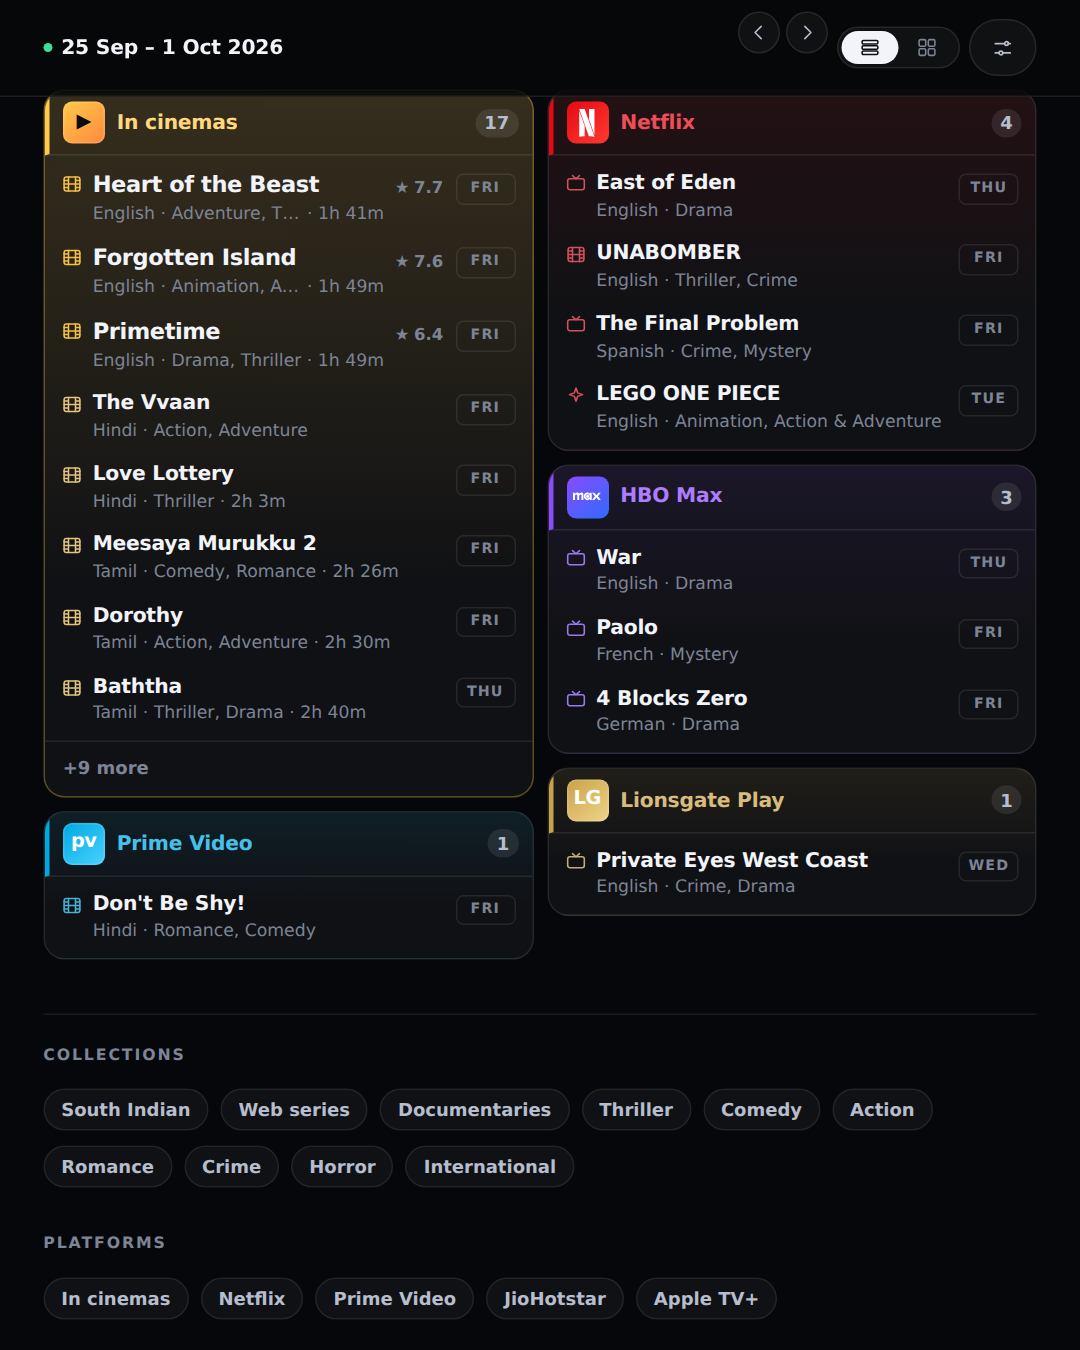
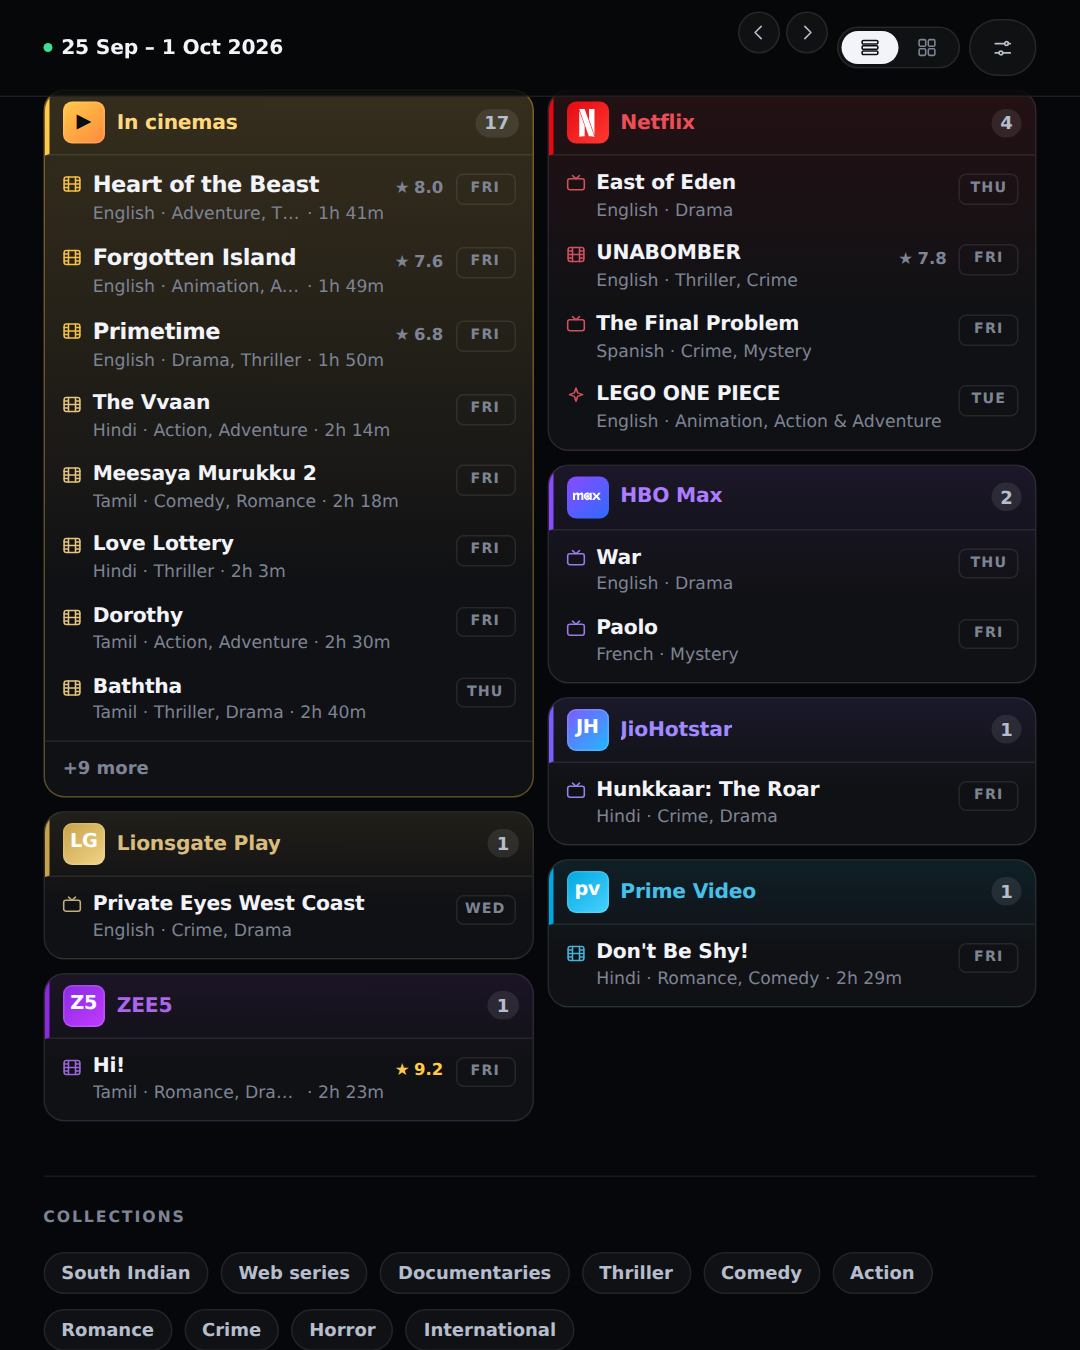
Rebuild the week's post on the calendar that actually shipped
The first cut was built an hour before Friday's refresh published, on the
24 September feed, and was already wrong in every way that matters to a post
claiming to be this week: 26 titles rather than 27, no ZEE5 and no JioHotstar
column at all, HBO Max showing 3 where it has 2, no Malayalam among the
languages, and most ratings and runtimes still missing.

Reshot from the feed generated at 14:51 today. Seven platform columns now,
Heart of the Beast at 8.0, UNABOMBER at 7.8, Hi! at 9.2 on ZEE5, runtimes
attached. It is a better image as well as a true one.

Caption rewritten against the same data: 27 titles, 17 in cinemas, eight
languages.

Noted in the file, because the sequencing is the lesson and not the numbers:
a post built before the day's refresh lands has to be rebuilt after it.

Claude-Session: https://claude.ai/code/session_01CJygpwCShxESuwziV1Cb3S

diff --git a/social/week-2026-09-25/caption.md b/social/week-2026-09-25/caption.md
@@ -1,46 +1,51 @@
 # Instagram — week of 25 Sep – 1 Oct 2026
 
 **Format:** 2-slide carousel, 1080×1350 (4:5)
-**Slide 1:** `1-the-week.png` — the whole week, every platform
+**Slide 1:** `1-the-week.png` — the whole week, all seven platforms
 **Slide 2:** `2-in-cinemas.png` — all 17 theatrical releases
 
 Both are real screenshots of the app at newonott.in, not mock-ups.
+Built from the feed generated 2026-09-25T14:51Z.
 
 ---
 
 ## Caption
 
-26 titles out this week. 17 of them in cinemas. Here's the whole thing 👇
+27 titles out this week. 17 of them in cinemas. Here's the whole thing 👇
 
 🎬 IN CINEMAS (17)
-• Heart of the Beast ★7.7 — English
+• Heart of the Beast ★8.0 — English
 • Forgotten Island ★7.6 — English
-• Primetime ★6.4 — English
+• Primetime ★6.8 — English
 • The Vvaan — Hindi
-• Love Lottery — Hindi
 • Meesaya Murukku 2 — Tamil
+• Love Lottery — Hindi
 • Dorothy — Tamil
-• Chiranjeevi Hanuman: The Eternal — Hindi
 • Spark — Kannada
+• Aaram — Malayalam
+• Dhoomakethu — Malayalam
+• Chiranjeevi Hanuman: The Eternal — Hindi
 • Premada Oorali — Kannada
 • Pulavar — Tamil
 • Autobi — Bengali
-• Village Rockstars 2 — Assamese
-…and more on slide 2
+• Baththa — Tamil (Thu)
+• Yezhu Kadal Yezhu Malai — Tamil (Thu)
+…full list on slide 2
 
 📺 STREAMING
-• East of Eden — Netflix (Thu)
-• UNABOMBER — Netflix (Fri)
+• UNABOMBER ★7.8 — Netflix (Fri)
 • The Final Problem — Netflix (Fri)
 • LEGO ONE PIECE — Netflix (Tue)
-• War — HBO Max (Thu)
-• Paolo — HBO Max (Fri)
-• 4 Blocks Zero — HBO Max (Fri)
+• East of Eden — Netflix (Thu)
+• Hi! ★9.2 — ZEE5 (Fri)
+• Hunkkaar: The Roar — JioHotstar (Fri)
 • Don't Be Shy! — Prime Video (Fri)
+• Paolo — HBO Max (Fri)
+• War — HBO Max (Thu)
 • Private Eyes West Coast — Lionsgate Play (Wed)
 
-Nine languages this week — English, Tamil, Hindi, Kannada, Bengali,
-Assamese, Spanish, French, German.
+Eight languages this week — English, Hindi, Tamil, Kannada, Malayalam,
+Bengali, Spanish, French.
 
 Save this. Send it to the person who always asks what to watch.
 
@@ -52,23 +57,22 @@ Every release, every platform, updated daily → newonott.in
 ## Hashtags
 
 #NewOnOTT #OTTIndia #OTTReleases #WhatToWatch #StreamingIndia
-#NewReleases #NetflixIndia #PrimeVideoIndia #TamilCinema #KollywoodUpdates
-#BollywoodNews #KannadaCinema #SandalwoodUpdates #IndianCinema #MovieCalendar
-#ThisWeekInCinemas #WeekendWatch #FilmTwitter #OTTUpdates #NowStreaming
+#NewReleases #NetflixIndia #PrimeVideoIndia #ZEE5 #JioHotstar
+#TamilCinema #KollywoodUpdates #BollywoodNews #KannadaCinema #Mollywood
+#IndianCinema #MovieCalendar #ThisWeekInCinemas #WeekendWatch #NowStreaming
 
 ---
 
-## Story version
-
-Slide 1 works as-is for a 9:16 story if you let Instagram letterbox it, but
-a purpose-built 1080×1920 already exists: `npm run story`.
-
 ## Notes
 
+- Reshot after the 25 Sep refresh landed. The first cut was built on the
+  24 Sep feed and was already wrong: 26 titles rather than 27, no ZEE5 or
+  JioHotstar column, HBO Max showing 3, no Malayalam, and most ratings and
+  runtimes still missing. If a post is ever built before the day's refresh
+  publishes, it is worth rebuilding after.
 - The app's own poster artwork could not be captured from this machine —
   image.tmdb.org and newonott.in are both blocked by the sandbox's network
   policy, so the poster rails render as empty cards. The board view used here
   needs no artwork, which is why it was chosen; it is also the denser, more
   forwardable creative for a release calendar.
-- If you want the poster rails in a future post, screenshot the top of
-  newonott.in on your own phone — there the artwork loads.
+- For a 9:16 story, `npm run story` builds one purpose-made.
